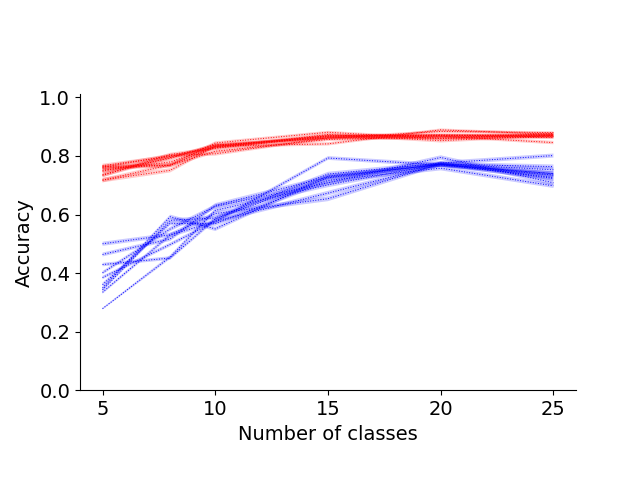
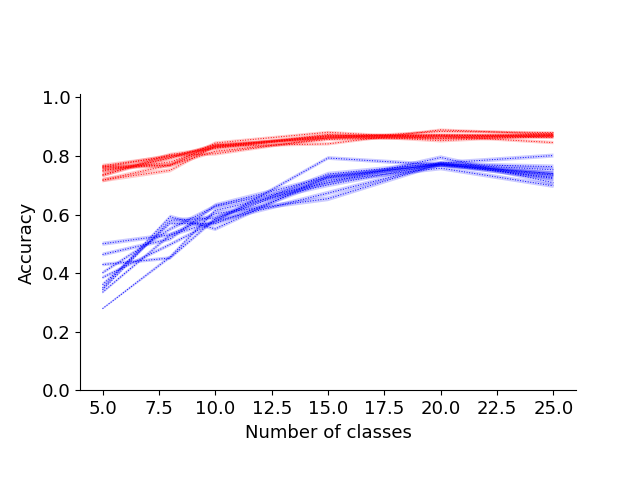
Fig2 edit

diff --git a/figs/fig2bs/line_acc_sample.py b/figs/fig2bs/line_acc_sample.py
@@ -5,7 +5,7 @@ import matplotlib.pyplot as plt
 df = pd.read_csv("data_tf_samples.txt", sep='\t')
 df2 = pd.read_csv("data_samples.txt", sep='\t')
 
-plt.rcParams.update({'font.size': 14})
+plt.rcParams.update({'font.size': 13})
 fig, ax = plt.subplots()
 
 ax.spines['top'].set_visible(False)

diff --git a/figs/fig2bs/line_acc_class.py b/figs/fig2bs/line_acc_class.py
@@ -5,7 +5,7 @@ import matplotlib.pyplot as plt
 df = pd.read_csv("data_tf_class.txt", sep='\t')
 df2 = pd.read_csv("data_class.txt", sep='\t')
 
-plt.rcParams.update({'font.size': 14})
+plt.rcParams.update({'font.size': 13})
 fig, ax = plt.subplots()
 
 ax.spines['top'].set_visible(False)
